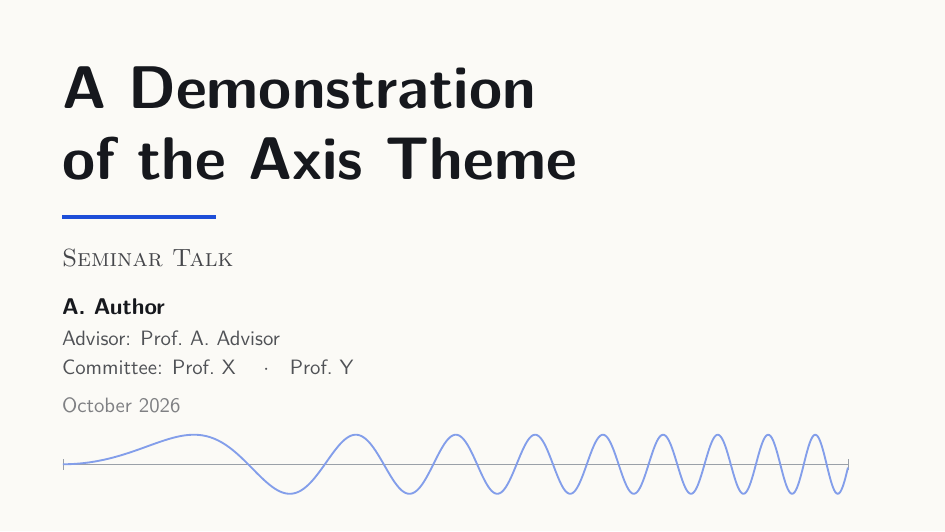
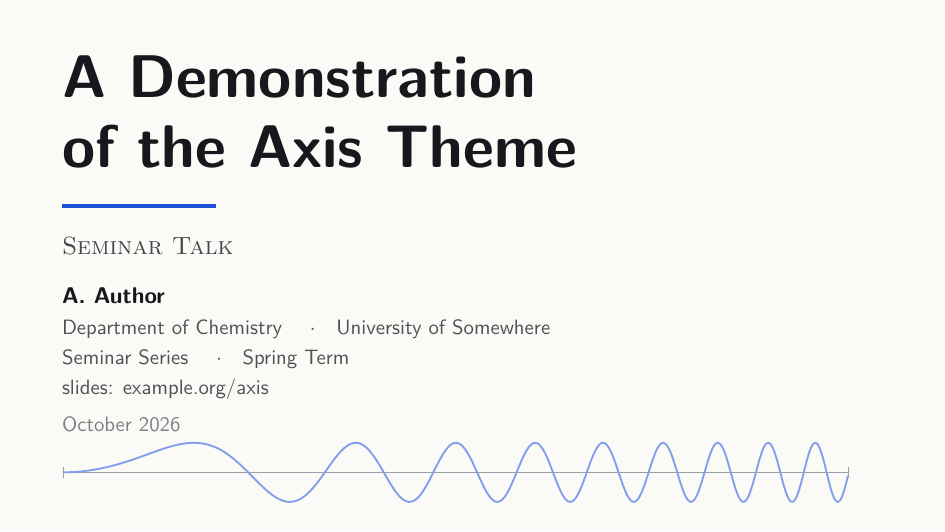
v1.2: generalize title page — \institute + repeatable \axisextrainfo replaces \axisadvisor/\axiscommittee

diff --git a/demo.tex b/demo.tex
@@ -14,9 +14,10 @@
 \title{A Demonstration\\ of the Axis Theme}
 \subtitle{Seminar Talk}
 \author{A.\ Author}
+\institute{Department of Chemistry \quad$\cdot$\quad University of Somewhere}
 \date{October 2026}
-\axisadvisor{Advisor: Prof.\ A.\ Advisor}
-\axiscommittee{Committee: Prof.\ X \quad$\cdot$\quad Prof.\ Y}
+\axisextrainfo{Seminar Series \quad$\cdot$\quad Spring Term}
+\axisextrainfo{slides: example.org/axis}
 % \axislogo{logo.png}          % bottom-right logo (optional)
 % \axisset{fa=0.25, fb=0.5, fc=0.75, total=0}
 

diff --git a/README.md b/README.md
@@ -65,8 +65,9 @@ directory.
 \subtitle{Seminar Talk}                  % small-caps kicker
 \author{A.\ Author}
 \date{October 2026}
-\axisadvisor{Advisor: Prof.\ A.\ Advisor}
-\axiscommittee{Committee: Prof.\ X, Prof.\ Y}
+\institute{Department of Chemistry \quad$\cdot$\quad University of Somewhere}
+\axisextrainfo{Seminar Series}             % repeatable: each call adds a line
+\axisextrainfo{slides: example.org/axis}  % any extra info: event, advisor, URL, ...
 \axislogo{logo.png}                      % bottom-right, optional
 \axisset{fa=0.25, fb=0.50, fc=0.75, total=0}
 
